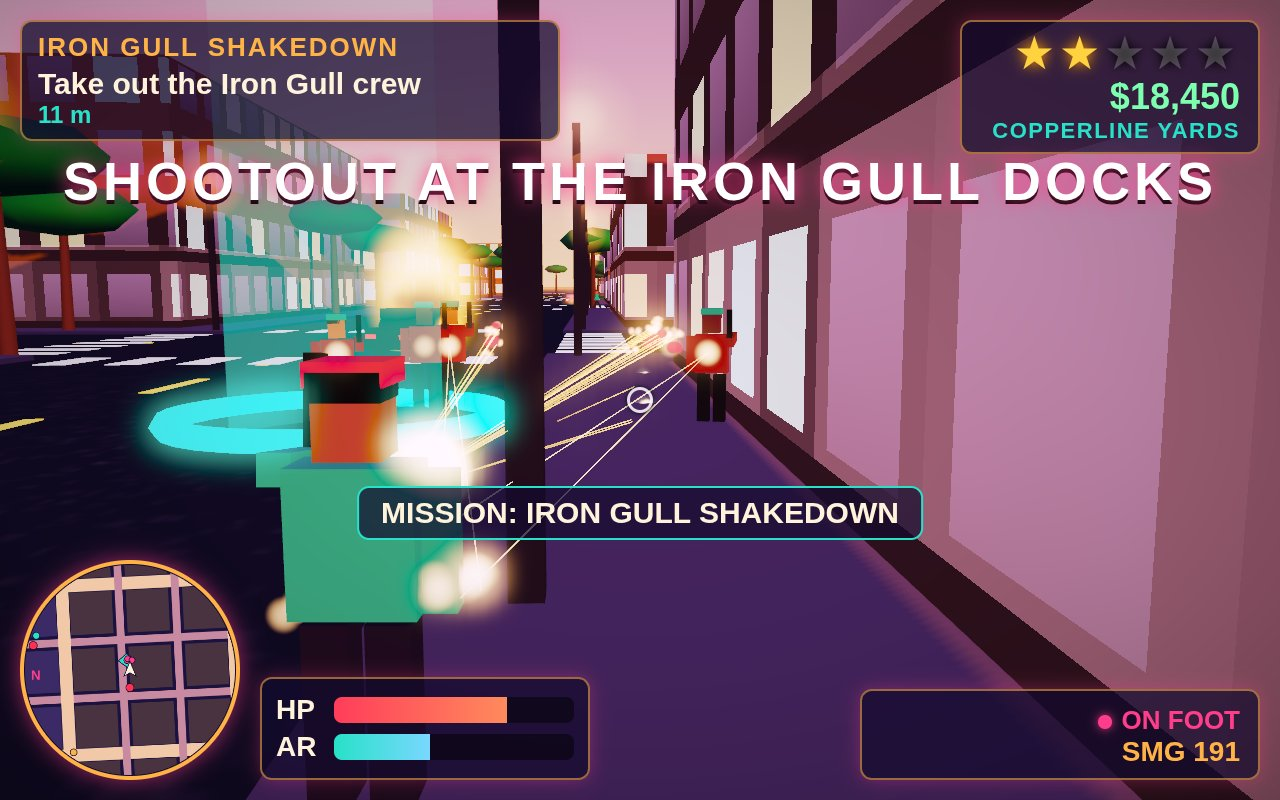
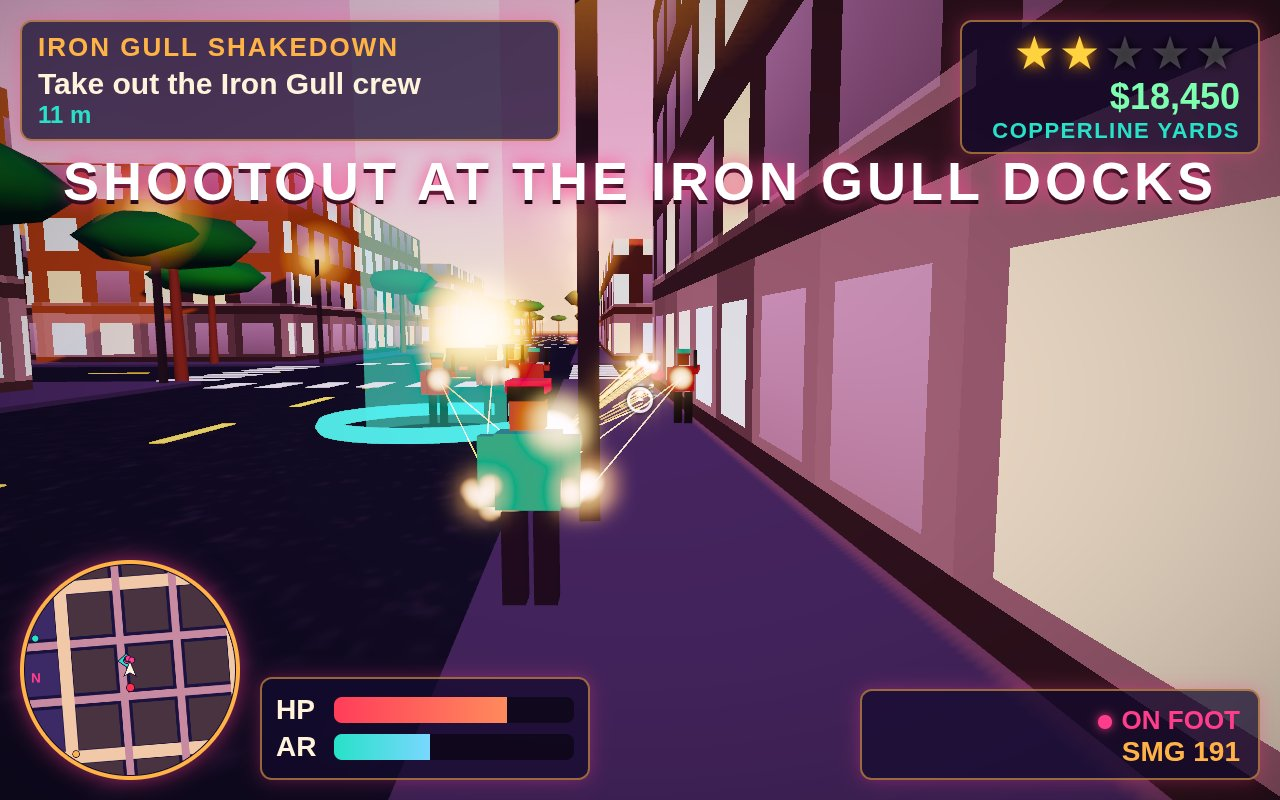
Final screenshots, input and player-vehicle polish

diff --git a/game/src/player/player-character.js b/game/src/player/player-character.js
@@ -4,7 +4,8 @@ import { buildHumanoid, animateHumanoid } from '../characters/humanoid-mesh.js';
 import { updateOnFoot } from './on-foot-controls.js';
 import { updateDriving } from './driving-controls.js';
 import { collideCircle } from '../world/city-generator.js';
-import { syncMesh } from '../vehicles/vehicle-physics.js';
+import { hurtPlayer } from '../combat/damage.js';
+import { emit } from '../core/event-bus.js';
 
 export const SPAWN_POINTS = [
   { x: 64 * 5 + 11, z: 64 * 6 + 11, name: 'Tamarind Loft' },
@@ -30,6 +31,26 @@ export function placePlayer(x, z, heading = 0) {
   p.dead = false; p.hp = p.maxHp; p.inCar = null; p.mesh.visible = true;
 }
 
+// On foot, cars are solid: slow ones block you, fast ones knock you down and hurt.
+function vehicleContacts(p) {
+  for (const v of G.vehicles) {
+    const dx = p.x - v.x, dz = p.z - v.z;
+    if (dx * dx + dz * dz > 25) continue;
+    const sp = Math.hypot(v.vx, v.vz);
+    for (const off of [v.half, -v.half]) {
+      const cx = v.x + Math.sin(v.heading) * off, cz = v.z + Math.cos(v.heading) * off;
+      const ex = p.x - cx, ez = p.z - cz, d = Math.hypot(ex, ez), min = v.radius + 0.4;
+      if (d >= min || d < 1e-4) continue;
+      p.x += (ex / d) * (min - d); p.z += (ez / d) * (min - d);
+      if (sp > 5 && !v.parked) {
+        hurtPlayer(sp * 1.6, 'vehicle');
+        p.knockX = (v.vx / sp) * 6; p.knockZ = (v.vz / sp) * 6;
+        emit('camera-shake', { amount: 0.5 });
+      }
+    }
+  }
+}
+
 export function updatePlayer(dt) {
   const p = G.player;
   p.enterCooldown = Math.max(0, p.enterCooldown - dt);
@@ -42,13 +63,10 @@ export function updatePlayer(dt) {
   } else {
     p.mesh.visible = true;
     updateOnFoot(p, dt);
+    vehicleContacts(p);
     collideCircle(p, 0.4);
     p.mesh.position.set(p.x, 0, p.z);
     p.mesh.rotation.y = p.heading;
     animateHumanoid(p.mesh, dt, p.speed, p.aiming || p.fireT > 0.1);
   }
-}
-
-export function syncPlayerCar(dt) {
-  if (G.player.inCar) syncMesh(G.player.inCar, dt);
 }

diff --git a/game/src/core/simulation.js b/game/src/core/simulation.js
@@ -28,12 +28,20 @@ import { saveToSlot } from '../save/save-slots.js';
 import { togglePause } from './game-flow.js';
 import { onPauseOpened } from '../ui/pause-menu.js';
 import { lampFlicker } from '../fx/street-life.js';
+import { on } from './event-bus.js';
 
-export const sim = { world: null, paused: false };
+export const sim = { world: null, paused: false, lockLostAt: -1 };
+
+on('pointer-lock-lost', () => {
+  if (G.mode !== 'play') return;
+  sim.lockLostAt = performance.now();
+  togglePause();
+  onPauseOpened();
+});
 
 function handleGlobalKeys() {
   const p = G.player;
-  if (wasTapped('Escape')) { togglePause(); if (G.mode === 'paused') onPauseOpened(); }
+  if (wasTapped('Escape') && performance.now() - sim.lockLostAt > 250) { togglePause(); if (G.mode === 'paused') onPauseOpened(); }
   if (G.mode !== 'play') return;
   if (wasTapped('KeyF') || (wasTapped('KeyE') && !(nearShop(p) && !p.inCar))) {
     if (p.inCar) exitCar(p); else tryEnterCar(p);

diff --git a/game/src/screenshot/shot-scenes.js b/game/src/screenshot/shot-scenes.js
@@ -40,16 +40,16 @@ async function sceneCombat() {
   setWanted(2);
   for (let i = 0; i < 3; i++) { const a = spawnPedestrian(dock.x - 4 + i * 6, dock.z + 9, { role: 'civilian', state: 'flee' }); a.threat = { x: dock.x, z: dock.z }; }
   spawnPatrolCar('x', 10, dock.x - 110, 1);
-  input.buttons[2] = true;
   advance(0.5, () => { camState.yaw = Math.PI / 2; });
   explodeVehicle(wreck);
   advance(2.3, () => {
-    camState.yaw = Math.PI / 2 - 0.05;
+    camState.yaw = Math.PI / 2 - 0.08;
+    camState.pitch = 0.1;
     input.buttons[0] = true; input.clicked[0] = true;
     p.hp = Math.max(p.hp, 60);
   });
-  input.buttons[2] = true;
   emit('banner', 'SHOOTOUT AT THE IRON GULL DOCKS');
+  document.getElementById('toast').classList.remove('show');
 }
 
 async function sceneStory() {

diff --git a/game/src/core/input-controls.js b/game/src/core/input-controls.js
@@ -1,4 +1,6 @@
 // Keyboard + mouse state. Systems poll `input` each frame; `endFrame` clears one-shot values.
+import { emit } from './event-bus.js';
+
 export const input = {
   held: new Set(),
   tapped: new Set(),
@@ -47,7 +49,9 @@ export function installInput(canvas) {
   window.addEventListener('wheel', (e) => { input.wheel += Math.sign(e.deltaY); }, { passive: true });
   window.addEventListener('contextmenu', (e) => e.preventDefault());
   document.addEventListener('pointerlockchange', () => {
+    const was = input.locked;
     input.locked = document.pointerLockElement === canvas;
+    if (was && !input.locked) emit('pointer-lock-lost'); // Esc releases the mouse and is not delivered as a key
   });
 }
 

diff --git a/game/src/missions/objective-marker.js b/game/src/missions/objective-marker.js
@@ -11,7 +11,7 @@ export function createBeam(color) {
   const g = new THREE.Group();
   const mat = new THREE.MeshBasicMaterial({ color, transparent: true, opacity: 0.13, depthWrite: false, blending: THREE.AdditiveBlending, side: THREE.DoubleSide, fog: false });
   const beam = new THREE.Mesh(beamGeo, mat);
-  const ring = new THREE.Mesh(ringGeo, new THREE.MeshBasicMaterial({ color: new THREE.Color(color).multiplyScalar(2.2), toneMapped: false, fog: false }));
+  const ring = new THREE.Mesh(ringGeo, new THREE.MeshBasicMaterial({ color: new THREE.Color(color).multiplyScalar(1.3), toneMapped: false, fog: false }));
   ring.position.y = 0.3;
   g.add(beam, ring);
   g.userData = { ring, beam };

diff --git a/game/src/missions/mission-board.js b/game/src/missions/mission-board.js
@@ -13,7 +13,7 @@ export function installMissionBoard() {
   startBeam = createBeam(0xffb347);
   objectiveBeam = createBeam(0x27e1c8);
   on('mission-passed', (m) => {
-    emit('banner', 'MISSION PASSED  +$' + m.reward);
+    emit('banner', m.id === 'm7' ? 'THE CITY IS YOURS — NEON TIDE COMPLETE' : 'MISSION PASSED  +$' + m.reward);
     emit('toast', m.weapon ? 'Unlocked: ' + m.weapon.toUpperCase() : m.title);
     emit('autosave');
   });
